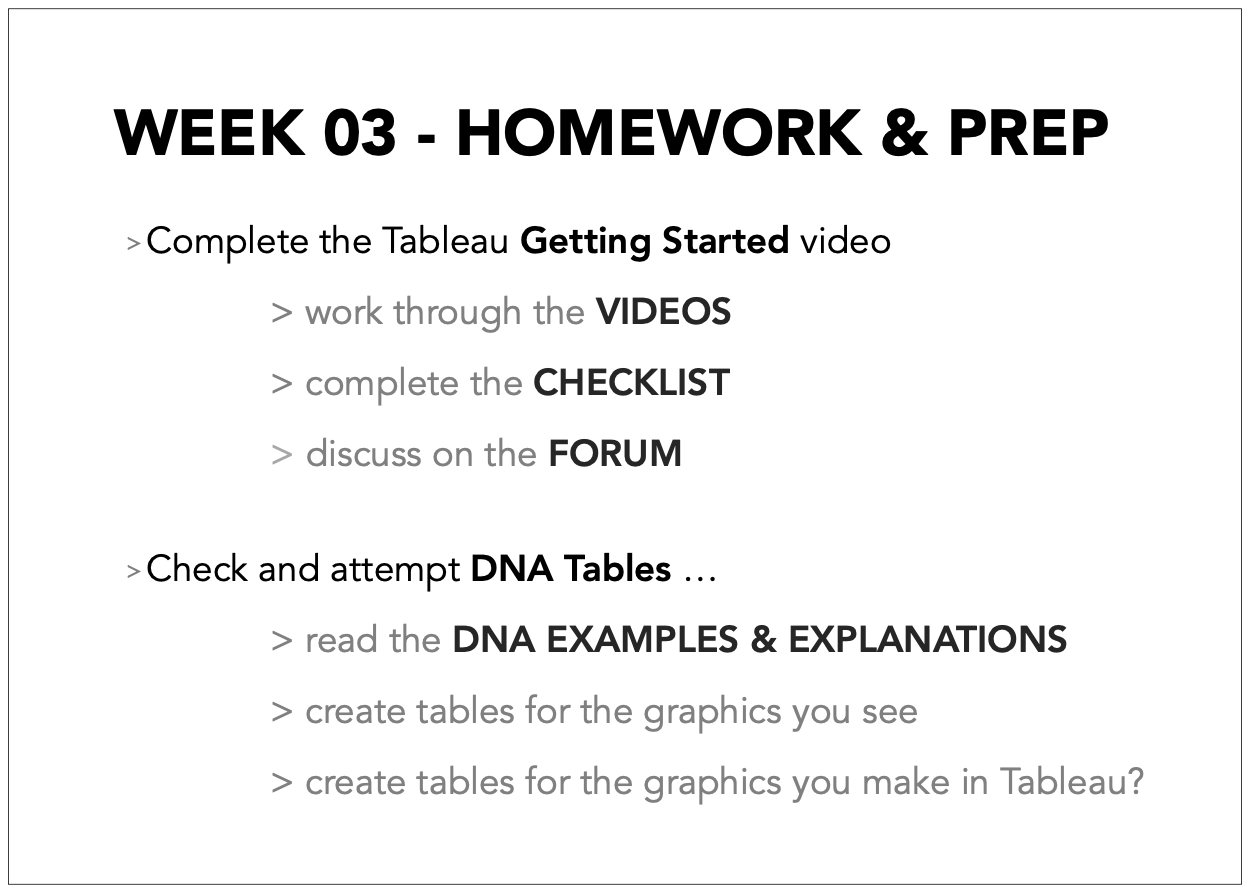
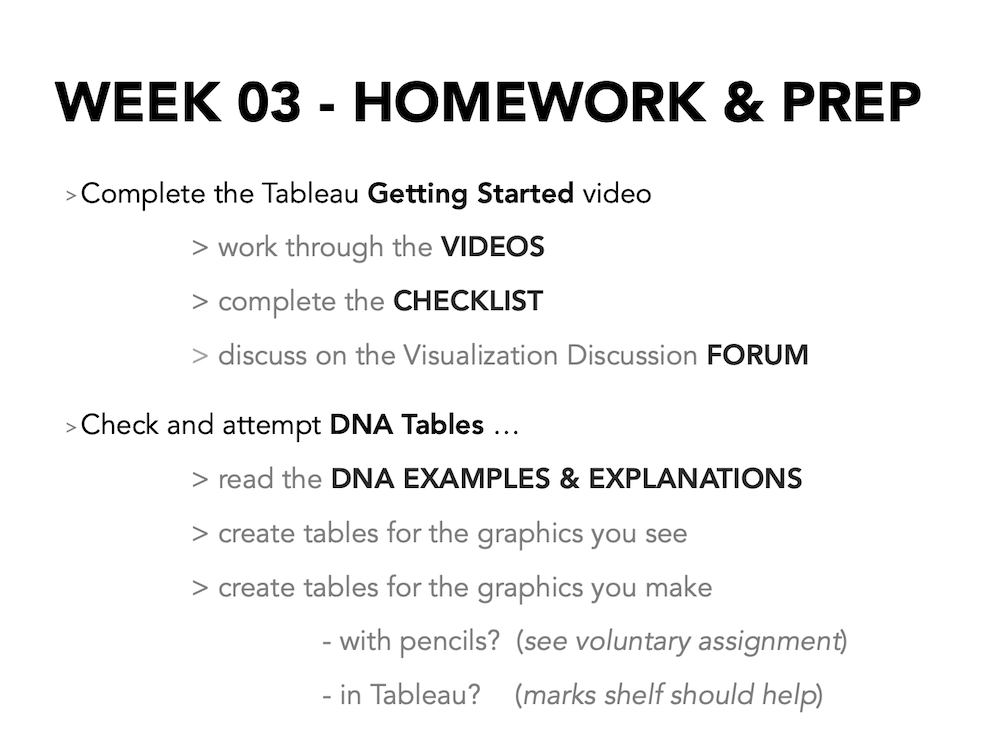
updates week 03 homework

diff --git a/moodle/week03/sg2047.week03.homework.md b/moodle/week03/sg2047.week03.homework.md
@@ -4,12 +4,21 @@
 <img width=300 src="https://jsndyks.github.io/sg2047/img/sg2047.week03.homework.slide.png"/>
 </div>
 
-There are **TWO** tasks this week, and they are significant ones. But they are activities that you have already been asked to complete 👉
+<br/>
+There are **THREE** tasks this week, and they are significant ones.<br/>
+Two of them are activities that you have already been asked to complete 👉
 
-- **firstly** you need to work on the **Tableau - Getting Started** exercise and finish this off in your own time,
-- **secondly** use the **DNA Tables - Examples & Explanations** document to consolidate the ideas about DNA tables and create / update your own
+But additionally, you will need to spend time on the lecture that I have recorded on _[DNA Tables &amp; Colour](https://moodle4.city.ac.uk/mod/kalvidres/view.php?id=885535)_.
 
-Sorry this page has come online a little late - _it's been a busy week!_<br/>
+<div style="clear:both"/>
+
+- **firstly** complete the **Video - DNA Tables and Colour** and use the Visualization Discussion forum to communicate about it as you consolidate your learning;
+
+- **secondly** you need to work on the **Tableau - Getting Started** exercise and finish this off in your own time before next week's class;
+
+- **thirdly** (_is that a word - sounds strange?_) use the **DNA Tables - Examples & Explanations** document to consolidate the ideas about DNA tables and create / update your own
+
+Sorry this page has come online a little late - _it's been a busy week!_ <br/>
 But the tasks are the same as those shown in the slides and flagged at the end of the lecture - so no surprises.<br/>
 You need to complete them _before the Week 04 class_ please.
 
@@ -17,9 +26,26 @@ You need to complete them _before the Week 04 class_ please.
 
 ### HOMEWORK
 
-_This week's homework should take you about **2 hours** to complete ..._
+_This week's homework should take you about **4 hours** to complete ..._
 
-### 1. **Compete This Week's Practical Exercise**
+### 1. **Watch the End of the Lecture!**
+
+I waffled a bit in week 03 - even more than normal, and didn't get to the bit about DNA tables and colour., But I have recorded this and you should, indeed **MUST** take a look.
+
+ - [Video - DNA Tables and Colour](https://moodle4.city.ac.uk/mod/kalvidres/view.php?id=885535)
+
+Use the slides, take notes as you watch, try things out, remember the ⏸, ⏪, and ⏩ buttons, and use the [Visualization Discussion](https://moodle4.city.ac.uk/mod/forum/view.php?id=824647) forum to discuss concepts and solutions.
+
+
+###### TIME: approx. 1 hr
+
+##### TASK 1 SUMMARY:
+
+> _Complete the **Practical Exercise** and make sure that you can tick most of the items on the **Checklist** and have made a note of the ones that you find challenging or need a hand with._
+
+&nbsp;
+
+### 2. **Compete This Week's Practical Exercise**
 
 ###### TIME: approx. 2 hrs
 
@@ -27,40 +53,45 @@ It's absolutely essential that you spend time working through the _Tableau_ prac
 
 Please engage fully with (and complete) these resources from the _Module Homepage_ ...
 
-1. [Practical Exercise : Tableau - Getting Started](https://moodle.city.ac.uk/mod/page/view.php?id=2381620)<br/>- **work through the videos**, and use _Tableau_ to try out all of the features and possibilities.<br/><br/>**NOTE :** _Tableau_ did some strange things with the maps of the US when we tried it in class. Check this [Tableau Geography - Update](https://moodle.city.ac.uk/mod/page/view.php?id=2556774) for an explanation and solution.
+1. [Practical Exercise : Tableau - Getting Started](https://moodle4.city.ac.uk/mod/page/view.php?id=824676)<br/>
+- **work through the videos**, and use _Tableau_ to try out all of the features and possibilities.<br/><br/>
+<!-- **NOTE :** _Tableau_ did some strange things with the maps of the US when we tried it in class. Check this [Tableau Geography - Update](https://moodle.city.ac.uk/mod/page/view.php?id=2556774) for an explanation and solution. -->
 
-2. [Tableau Getting Started Checklist](https://moodle.city.ac.uk/mod/resource/view.php?id=2381621)<br/>- **complete the checklist**, ticking the concepts that you have covered and tried, and marking those that you found challenging or would like to discuss
+2. [Tableau - Getting Started: Checklist of Concepts](https://moodle4.city.ac.uk/mod/page/view.php?id=824679)<br/>
+- **complete the checklist**, ticking the concepts that you have covered and tried, and marking those that you found challenging or would like to discuss
 
-3. [Visualization Discussion](https://moodle.city.ac.uk/mod/forum/view.php?f=94494)<br/>- **use the forum** to discuss _Tableau_ concepts and experiences, and identify (and begin to resolve) any technical or conceptual challenges.
+3. [Visualization Discussion](https://moodle4.city.ac.uk/mod/forum/view.php?id=824647)<br/>
+- **use the discussion forum** to discuss _Tableau_ concepts and experiences, and identify (and begin to resolve) any technical or conceptual challenges.
 
-##### TASK 1 SUMMARY:
+##### TASK 2 SUMMARY:
 
-> _Complete the **Practical Exercise** and make sure that you can tick most of the items on the **Checklist**_
+> _Complete the **Practical Exercise** and make sure that you can tick most of the items on the **Checklist** and have made a note of the ones that you find challenging or need a hand with._
 
 &nbsp;
 
-### 2. **Check DNA Tables for some Example Data Graphics**
+### 3. **Check DNA Tables for some Example Data Graphics**
 
-###### TIME: approx. 60 mins
+###### TIME: approx. 1 hr
 
 I have produced a document that explains the _DNA Tables_ with examples from previous exercises.
 
-1.  _**Check**_ through these [DNA Tables - Examples & Explanations](https://moodle.city.ac.uk/mod/url/view.php?id=2381619) and associated discussion and compare them with your efforts.
+1.  _**Check**_ through these [DNA Tables - Examples & Explanations](https://moodle4.city.ac.uk/mod/url/view.php?id=824675) and associated discussion and compare them with your efforts.
 
 2.  _**Update**_ your DNA Tables as you learn.
 
     - _create tables for the graphics you see?_
     - _create tables for the graphics you make in Tableau?_
+    - _create tables for the graphics you made in class with pencils?_
 
-3.  _**Discuss**_ in our [Visualization Discussion](https://moodle.city.ac.uk/mod/forum/view.php?id=2381582)
+3.  _**Discuss**_ in our [Visualization Discussion](https://moodle4.city.ac.uk/mod/forum/view.php?id=824647) forum.
 
-##### TASK 2:
+##### TASK 3:
 
 > _Check, Update and Discuss your **DNA Tables** in light of these **Example Graphics and DNA Tables** and the associated discussion._
 
 &nbsp;
 
-### ?. **Complete Outstanding Homework!**
+### +. **Complete Outstanding Homework?**
 
 It's important that everybody has completed the tasks that have been set up until now.
 
@@ -68,14 +99,17 @@ Things will get much busier as term progresses and coursework is set, so please 
 
 These are important activities that are the foundation for the knowledge and skills that you will need to demonstrate in the assessed activities. So by doing them, you are effectively contributing to the coursework already. That's the way I design my courses, and they rely on you completing activities in good time.
 
+This includes the core reading - which once again, we can discuss on the [Visualization Discussion](https://moodle4.city.ac.uk/mod/forum/view.php?id=824647) forum.
+
 ##### EXTRA TASK SUMMARY ?:
 
-> _Be sure to get up to date on the previous tasks!_ > _We will be building on these and moving at pace in the next few weeks!_
+> _Be sure to get up to date on the previous tasks!_
+> _We will be building on these and moving at pace in the next few weeks!_
 
 ---
 
 Jason **DYKES**<br/>
 
-18/02/23 🙀
+14/02/25 ❤
 
 ---
